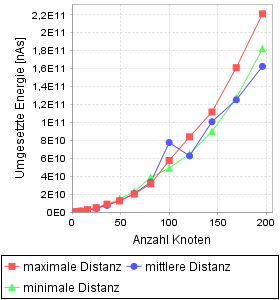
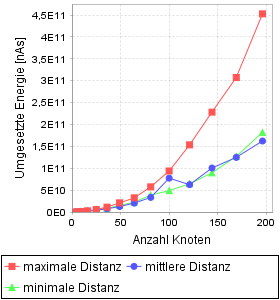
Bugfix und neue Kostenanalyse ohne Route discovery Prozess

diff --git a/src/AODV_RFC/AodvSimulator.java b/src/AODV_RFC/AodvSimulator.java
@@ -1,5 +1,6 @@
 package AODV_RFC;
 
+import SimulationNetwork.NetworkNode;
 import SimulationNetwork.PayloadMessage;
 import SimulationNetwork.Simulator;
 
@@ -31,6 +32,105 @@ public class AodvSimulator extends Simulator{
 		setCollisions(graph.getCollisions());
 		
 		return energyCosts;
+	}
+	
+	/**
+	 * Energy cost analysis without route discovery process
+	 * @param networkWidth
+	 * @param sourceNodeId
+	 * @param destinationNodeId
+	 * @return
+	 */
+	public long energyCostAnalysisWithoutRDP(int networkWidth, int sourceNodeId, int destinationNodeId) {
+		
+		AodvNetworkGraph graph = new AodvNetworkGraph(networkWidth);
+		
+		this.graph = graph;
+		
+		long consumedEnergy = 0L;
+		boolean transmissionInNetworkDetected;
+		
+		consumedEnergyInIdleMode = 0L;
+		consumedEnergyInReciveMode = 0L;
+		consumedEnergyInTransmissionMode = 0L;
+
+		networkLifetime = 0;
+
+		NetworkNode networkNodes[] = graph.getNetworkNodes();
+		for (int id = 0; id < networkNodes.length; id++) {
+			networkNodes[id].setSimulator(this);
+		}
+
+		char dataToSend[] = { 'H', 'E', 'L', 'O', ' ', 'W', 'O', 'R', 'L', 'D' };
+
+		PayloadMessage msg = new PayloadMessage(sourceNodeId, (destinationNodeId), dataToSend);
+		networkNodes[sourceNodeId].startSendingProcess(msg);
+
+		do {
+			// Performe NODE_EXECUTION_TIME ms every iteration
+			for (int id = 0; id < networkNodes.length; id++) {
+				networkNodes[id].performAction(NODE_EXECUTION_TIME);
+			}
+
+			networkLifetime += NODE_EXECUTION_TIME;
+		}while(((AodvNetworkNode)networkNodes[sourceNodeId]).getNumberRecivedRREPdMsg() == 0);
+		
+		//Reset transmission units and battery of all nodes
+		this.resetTransmissionUnitFromAllNodes();
+		for (int id = 0; id < networkNodes.length; id++) {
+			networkNodes[id].resetBattery();
+		}
+		
+		msg = new PayloadMessage(sourceNodeId, (destinationNodeId), dataToSend);
+		networkNodes[sourceNodeId].startSendingProcess(msg);
+		
+		
+		do{
+			// Performe NODE_EXECUTION_TIME ms every iteration
+			for (int id = 0; id < networkNodes.length; id++) {
+				networkNodes[id].performAction(NODE_EXECUTION_TIME);
+			}
+
+			networkLifetime += NODE_EXECUTION_TIME;
+			
+			//Check if there is any transmission process in the network
+			transmissionInNetworkDetected = false;
+			for (int id = 0; id < networkNodes.length; id++) {
+				if(id != destinationNodeId){
+					if(networkNodes[id].getOutgoingMessage() != null){
+						transmissionInNetworkDetected = true;
+						break;
+					}
+					if(networkNodes[id].getIncomingMessage() != null){
+						transmissionInNetworkDetected = true;
+						break;
+					}
+					if(networkNodes[id].getOutputBufferSize() > 0){
+						transmissionInNetworkDetected = true;
+						break;
+					}
+				}
+			}
+
+		} while (transmissionInNetworkDetected);
+
+		for (int id = 0; id < networkNodes.length; id++) {
+			/*consumedEnergy += NetworkNode.NODE_BATTERY_ENERGY_FOR_ONE_DAY_IN_IDLE_MODE
+					- networkNodes[id].getAvailableEnery();
+			*/
+			
+			
+			consumedEnergyInIdleMode += networkNodes[id].getConsumedEnergyInIdleMode();
+			//System.out.println("Node " + id + ": consumedEnergy idle: " + networkNodes[id].getConsumedEnergyInIdleMode());
+			consumedEnergyInReciveMode += networkNodes[id].getConsumedEnergyInReciveMode();
+			consumedEnergyInTransmissionMode += networkNodes[id].getConsumedEnergyInTransmissionMode();
+			//System.out.println("Node " + id + ": time in transmissionMode: " + networkNodes[id].getTransmissionTime()  + ", consumedEnergy transmission: " + networkNodes[id].getConsumedEnergyInTransmissionMode());
+			
+		}
+		
+
+		return (consumedEnergyInIdleMode + consumedEnergyInReciveMode + consumedEnergyInTransmissionMode);
+		
 	}
 	
 	public long lifetimeAnalysisStaticSendBehavior(int networkWidth, int transmissionPeriod,int payloadSIze){

diff --git a/src/SimulationNetwork/Simulator.java b/src/SimulationNetwork/Simulator.java
@@ -8,7 +8,7 @@ import Flooding.FloodingNetworkNode;
 
 public abstract class Simulator {
 
-	private static int NODE_EXECUTION_TIME = 2;
+	protected static int NODE_EXECUTION_TIME = 2;
 	
 	
 	protected long networkLifetime;
@@ -26,7 +26,7 @@ public abstract class Simulator {
 	protected double averageTimeInTransmissionMode;
 	protected double averageTimeWaitingForMediumAccesPermission;
 	
-	private NetworkGraph graph;
+	protected NetworkGraph graph;
 
 	
 	/**
@@ -127,22 +127,20 @@ public abstract class Simulator {
 				}
 			}
 
-		} while (transmissionInNetworkDetected);
+		} while (transmissionInNetworkDetected || networkNodes[destinationNodeId].getNumberOfRecivedPayloadMessages() == 0);
 
 		for (int id = 0; id < networkNodes.length; id++) {
-			/*consumedEnergy += NetworkNode.NODE_BATTERY_ENERGY_FOR_ONE_DAY_IN_IDLE_MODE
-					- networkNodes[id].getAvailableEnery();
-			*/
-			
-			
 			consumedEnergyInIdleMode += networkNodes[id].getConsumedEnergyInIdleMode();
-			//System.out.println("Node " + id + ": consumedEnergy idle: " + networkNodes[id].getConsumedEnergyInIdleMode());
+			System.out.println("Node " + id + ": consumedEnergy idle: " + networkNodes[id].getConsumedEnergyInIdleMode() + ", time in idleMode " + (networkNodes[id].getIdleTime() +networkNodes[id].getWaitingTimeForMediumAccesPermission()) + ", time in recive mode "+ networkNodes[id].getReciveTime() + ", time in transmit mode " + networkNodes[id].getTransmissionTime() );
 			consumedEnergyInReciveMode += networkNodes[id].getConsumedEnergyInReciveMode();
 			consumedEnergyInTransmissionMode += networkNodes[id].getConsumedEnergyInTransmissionMode();
-			//System.out.println("Node " + id + ": time in transmissionMode: " + networkNodes[id].getTransmissionTime()  + ", consumedEnergy transmission: " + networkNodes[id].getConsumedEnergyInTransmissionMode());
-			
 		}
 		
+		calculateAverageNodeTimes(graph.getNetworkNodes());
+		
+		System.out.println("Consumed energy idle mode: " + consumedEnergyInIdleMode + ", time in idle mode: " + (this.averageTimeInIdleMode + this.averageTimeWaitingForMediumAccesPermission));
+		System.out.println("Consumed energy recive mode: " + consumedEnergyInReciveMode + ", time in recive mode: " + this.averageTimeInTransmissionMode);
+		System.out.println("Consumed energy transmit mode: " + consumedEnergyInTransmissionMode + ", time in transmit mode: " + this.averageTimeInReciveMode);
 
 		return (consumedEnergyInIdleMode + consumedEnergyInReciveMode + consumedEnergyInTransmissionMode);
 	}
@@ -252,7 +250,7 @@ public abstract class Simulator {
 
 		}while(allNodesAlive(networkNodes));
 		
-		calculateAverateNodeTimes(graph.getNetworkNodes());
+		calculateAverageNodeTimes(graph.getNetworkNodes());
 	
 		System.out.println("Network Lifetime:" + networkLifetime/1000/60/60/24 + " Tage bzw "+ networkLifetime/1000 + " Sekunden.");
 		
@@ -313,7 +311,7 @@ public abstract class Simulator {
 
 		}while(!isNetworkPartitioned(graph));
 	
-		calculateAverateNodeTimes(graph.getNetworkNodes());
+		calculateAverageNodeTimes(graph.getNetworkNodes());
 		
 		System.out.println("Network Lifetime:" + networkLifetime/1000/60/60/24 + " Tage bzw "+ networkLifetime/1000 + " Sekunden.");
 		
@@ -445,7 +443,7 @@ public abstract class Simulator {
 		return true;
 	}
 	
-	private void calculateAverateNodeTimes(NetworkNode networkNodes[]){
+	private void calculateAverageNodeTimes(NetworkNode networkNodes[]){
 		
 		this.averageTimeInIdleMode = 0.0;
 		this.averageTimeInReciveMode = 0.0;

diff --git a/src/AODV_RFC/AodvNetworkNode.java b/src/AODV_RFC/AodvNetworkNode.java
@@ -14,6 +14,7 @@ public class AodvNetworkNode extends NetworkNode{
 	private LinkedList<TransmittedRREQ> recivedRREQs;
 	private int sequenceNumber;
 	private int rreqID;
+	private int numberRecivedRREPdMsg;
 
 	public AodvNetworkNode(int id) {
 		super(id);
@@ -23,6 +24,7 @@ public class AodvNetworkNode extends NetworkNode{
 		this.recivedRREQs = new LinkedList<TransmittedRREQ>();
 		this.sequenceNumber = 1;
 		this.rreqID = 1;
+		this.numberRecivedRREPdMsg = 0;
 	}
 
 	@Override
@@ -187,6 +189,7 @@ public class AodvNetworkNode extends NetworkNode{
 	
 	private void reciveRREP(RREP msg){
 		//System.out.println(""+simulator.getNetworkLifetime() +": Node "+ this.id + ": Recive RREP from Node " + msg.getSenderID() + ". DestinationNode: " + msg.getDestination_IP_Adress() + "; HopCount: " + msg.getHop_Count());
+		this.numberRecivedRREPdMsg++;
 		//Update routing table for previous hop
 		updateRouteTable(msg.getSenderID(), -1, 1, msg.getSenderID());
 		
@@ -343,7 +346,7 @@ public class AodvNetworkNode extends NetworkNode{
 	@Override
 	public void startSendingProcess(PayloadMessage tmpMsg) {
 		
-		System.out.println(""+simulator.getNetworkLifetime() +": Node " +  this.id + ": start transmission process ");
+		System.out.println(""+simulator.getNetworkLifetime() +": Node " +  this.id + ": start transmission process, msg destination: " + tmpMsg.getPayloadDestinationAdress() );
 		
 		tmpMsg.setStartTransmissionTime(simulator.getNetworkLifetime());
 		tmpMsg.setSenderID(this.id);
@@ -375,6 +378,10 @@ public class AodvNetworkNode extends NetworkNode{
 				
 			}
 		}
+	}
+
+	public int getNumberRecivedRREPdMsg() {
+		return numberRecivedRREPdMsg;
 	}
 
 }

diff --git a/src/Simulator/Main.java b/src/Simulator/Main.java
@@ -11,7 +11,7 @@ public class Main {
 		
 		FloodingEvaluationUnit floodingEvaluationUnit = new FloodingEvaluationUnit();
 		//floodingEvaluationUnit.evaluateSpeedAnalysis();
-		floodingEvaluationUnit.evaluateCostAnalysis();
+		//floodingEvaluationUnit.evaluateCostAnalysis();
 		//floodingEvaluationUnit.evaluateNetworkLivetimeStochasticSendBehavior();
 		
 		//floodingEvaluationUnit.evaluateNetworkLivetimeStaticSendBehavior();
@@ -23,7 +23,7 @@ public class Main {
 		
 		AodvEvaluationUnit aodvEvaluationUnit = new AodvEvaluationUnit();
 		//aodvEvaluationUnit.evaluateSpeedAnalysis();
-		//aodvEvaluationUnit.evaluateCostAnalysis();
+		aodvEvaluationUnit.evaluateCostAnalysis();
 		//aodvEvaluationUnit.evaluateNetworkLivetimeStaticSendBehavior(1);
 		//aodvEvaluationUnit.evaluateNetworkLivetimeStaticSendBehavior(10);
 		//aodvEvaluationUnit.evaluateNetworkLivetimeStaticSendBehavior(100);

diff --git a/src/SimulationNetwork/NetworkNode.java b/src/SimulationNetwork/NetworkNode.java
@@ -53,7 +53,7 @@ public abstract class NetworkNode {
 		inputBuffer = new LinkedList<Message>();
 		outputBuffer = new LinkedList<Message>();
 		// availableEnery = 4600L*3600L*1000L*1000L;
-		availableEnery = NODE_BATTERY_ENERGY_FOR_ONE_HOUR_IN_IDLE_MODE;
+		availableEnery = NODE_BATTERY_ENERGY_FOR_ONE_DAY_IN_IDLE_MODE;
 		idleTime = 0L;
 		reciveTime = 0L;
 		transmissionTime = 0L;
@@ -374,5 +374,12 @@ public abstract class NetworkNode {
 		this.outgoingMsg = null;
 		this.outputBuffer.clear();
 		this.incommingMsg = null;
+	}
+
+	public void resetBattery() {
+		this.availableEnery = NODE_BATTERY_ENERGY_FOR_ONE_HOUR_IN_IDLE_MODE;
+		consumedEnergyInIdleMode = 0L;
+		consumedEnergyInReciveMode = 0L;
+		consumedEnergyInTransmissionMode = 0L;
 	}
 }
